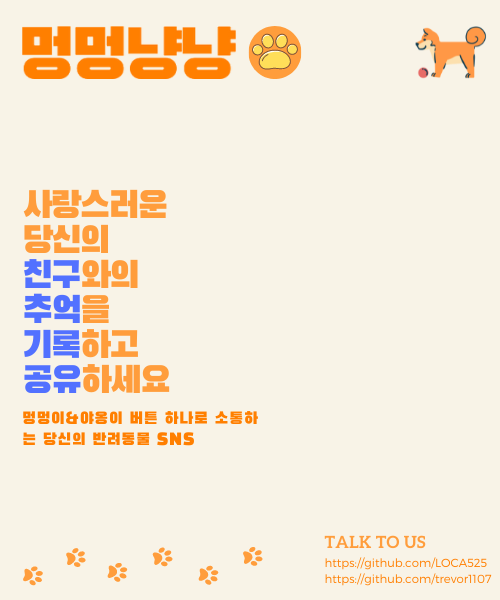
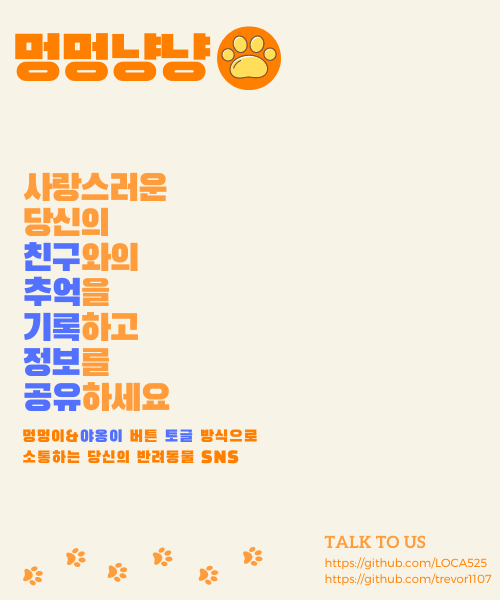
ECCR-46 <로고 디자인 수정, 좋아요버튼 마진 추가>

Changed region(s): [[0.03, 0.27, 0.54, 0.78], [0.03, 0.03, 0.6, 0.15], [0.81, 0.03, 0.99, 0.15]]

diff --git a/src/components/BottomNav/index.tsx b/src/components/BottomNav/index.tsx
@@ -19,14 +19,13 @@ const Container = styled.div`
   border-top: 1px solid rgb(223, 227, 232);
 `;
 function BottomNav() {
-  const current = useRecoilValue(modeState);
-  const buttonColor = current.buttonColor;
+  const { buttonColor } = useRecoilValue(modeState);
 
   return (
     <Container>
-      <SearchFeedBtn width={'30px'} height={'30px'} stroke={buttonColor} />
+      <SearchFeedBtn width={'32px'} height={'32px'} stroke={buttonColor} />
       <UploadBtn width={'33px'} height={'33px'} fill={buttonColor} />
-      <HomeBtn width={'25px'} height={'25px'} fill={buttonColor} />
+      <HomeBtn width={'27px'} height={'26px'} fill={buttonColor} />
     </Container>
   );
 }

diff --git a/src/components/Card/index.tsx b/src/components/Card/index.tsx
@@ -7,8 +7,7 @@ import { ReactComponent as HeartBtn } from '../../assets/images/heart.svg';
 import { modeState } from '../../store/themeColor';
 
 function Card() {
-  const current = useRecoilValue(modeState);
-  const buttonColor = current.buttonColor;
+  const { buttonColor } = useRecoilValue(modeState);
 
   return (
     <CardContainer>
@@ -102,7 +101,11 @@ const ButtonContainer = styled.div`
   align-items: center;
   padding: 10px 20px 10px 20px;
 `;
-const HeartCommentContainer = styled.div``;
+const HeartCommentContainer = styled.div`
+  justify-content: space-between;
+  width: 70px;
+  display: flex;
+`;
 
 const HeartCount = styled.div`
   font-size: 14px;

diff --git a/src/components/Logo.tsx b/src/components/Logo.tsx
@@ -19,13 +19,12 @@ const WallPaper = styled.img`
   z-index: 1;
 `;
 function Logo() {
-  const current = useRecoilValue(modeState);
-  const wallpaper = current.wallPaper;
+  const { wallPaper } = useRecoilValue(modeState);
 
   return (
     <LogoContainer>
       <LogoImage src={leftImage} />
-      <WallPaper src={wallpaper} />
+      <WallPaper src={wallPaper} />
     </LogoContainer>
   );
 }

diff --git a/src/pages/UploadPage.tsx b/src/pages/UploadPage.tsx
@@ -6,8 +6,7 @@ import UserHeader from '../components/UserHeader';
 import { modeState } from '../store/themeColor';
 
 function UploadPage() {
-  const current = useRecoilValue(modeState);
-  const buttonColor = current.buttonColor;
+  const { buttonColor } = useRecoilValue(modeState);
   const [introduce, setIntroduce] = useState<string>('');
 
   const textAreaHeight = useMemo(() => {

diff --git a/src/components/UserProfile/index.tsx b/src/components/UserProfile/index.tsx
@@ -3,9 +3,7 @@ import styled from 'styled-components';
 import { modeState } from '../../store/themeColor';
 
 function UserProfile() {
-  const current = useRecoilValue(modeState);
-  const buttonColor = current.buttonColor;
-  const hoverColor = current.hoverColor;
+  const { buttonColor, hoverColor } = useRecoilValue(modeState);
 
   return (
     <Container>

diff --git a/src/components/UserHeader/index.tsx b/src/components/UserHeader/index.tsx
@@ -4,8 +4,7 @@ import { ReactComponent as BackBtn } from '../../assets/images/back.svg';
 import { modeState } from '../../store/themeColor';
 
 function UserHeader() {
-  const current = useRecoilValue(modeState);
-  const buttonColor = current.buttonColor;
+  const { buttonColor } = useRecoilValue(modeState);
 
   return (
     <Container>
